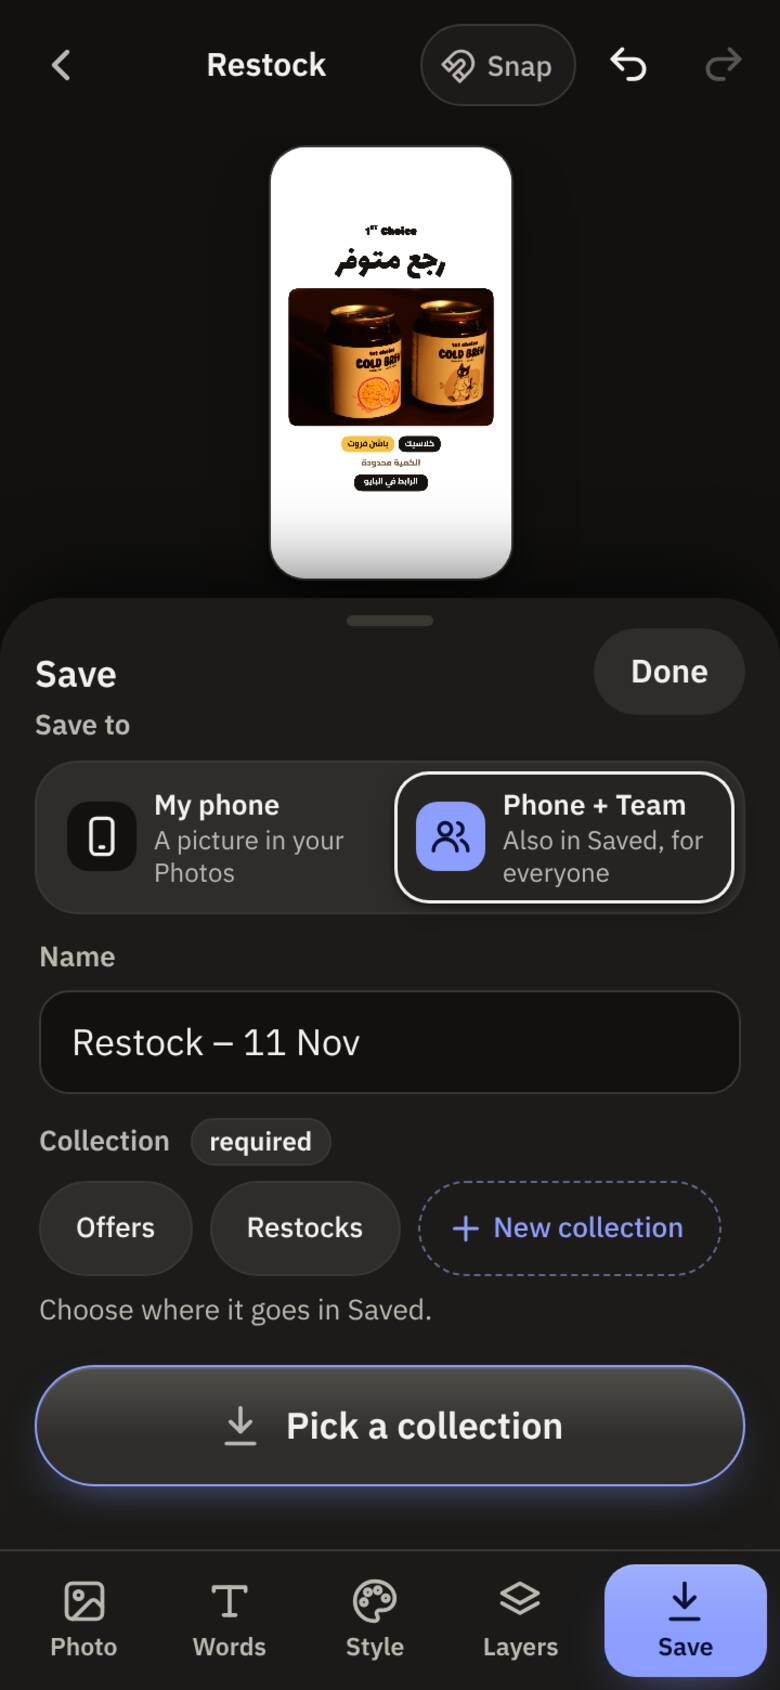
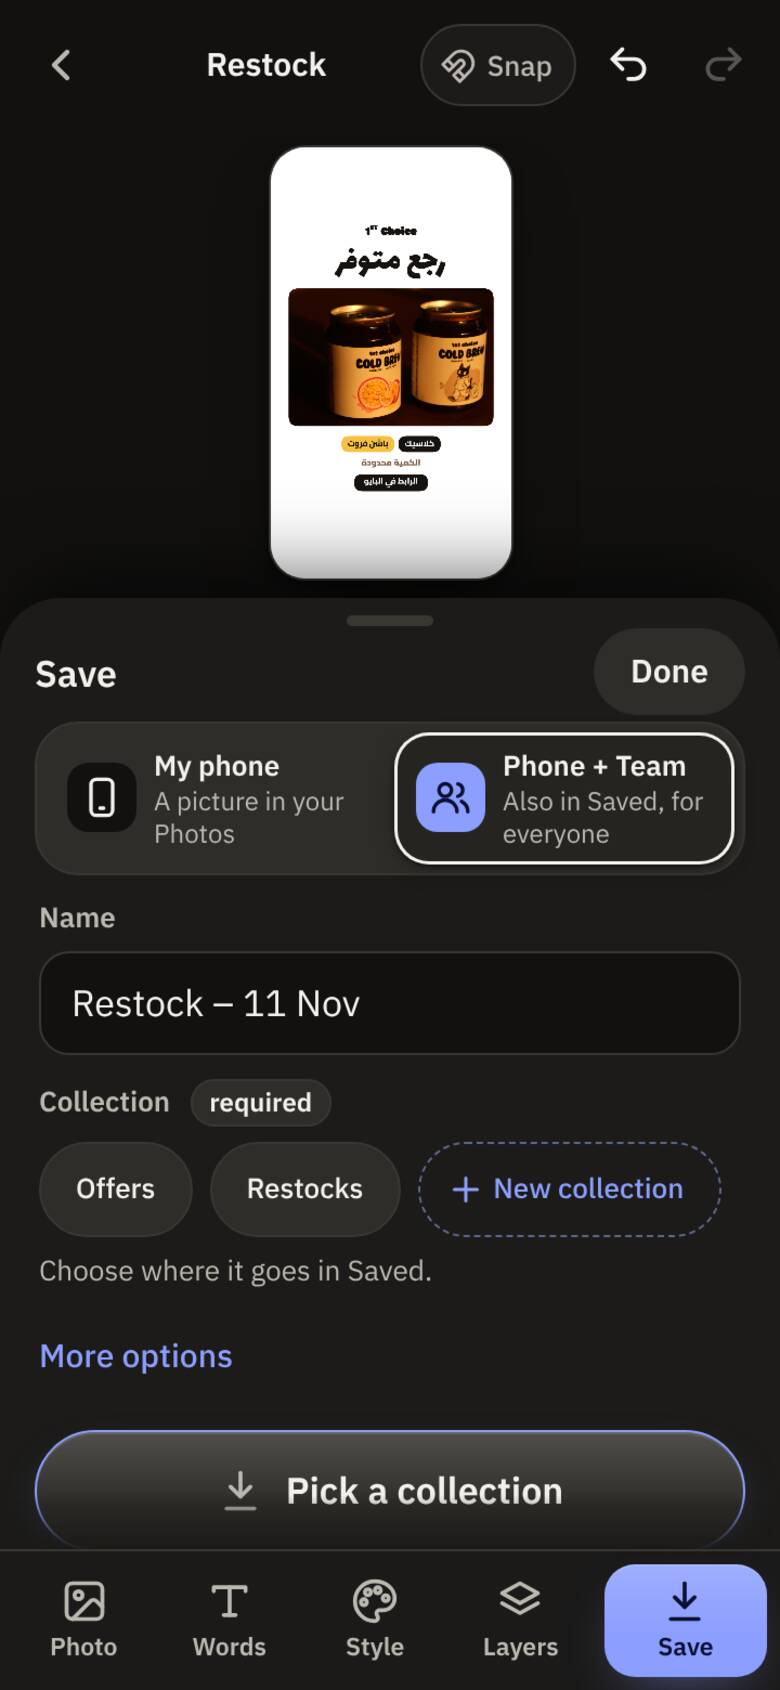
2.4.1: Ideas and Goals are permanent (plan flag removed); Save button stays in place (not pinned), Team scrolls it into view

Changed region(s): [[0.0308, 0.4, 0.9538, 0.9231], [0.4923, 0.4308, 0.9538, 0.5538], [0.5846, 0.6769, 0.9231, 0.7385]]

diff --git a/assets/studio.js b/assets/studio.js
@@ -98,8 +98,7 @@ const FLAGS=[
   {id:'import',label:'Import a Claude Design board',sub:'Open an exported board in Create as layers'},
   {id:'motion',label:'Moving stories',sub:'Save a Create story as a short video'},   /* w3-mp4 */
   {id:'cutout',label:'Remove background',sub:'Cut out a can or a person from a photo, on this device'},
-  {id:'stock',label:'Live stock in Restock',sub:'Pick a sale point and its stock fills in'},   /* w3-stock */
-  {id:'plan',label:'Ideas and Goals',sub:'An ideas board and monthly goals next to the calendar'}   /* 2.4.0 */
+  {id:'stock',label:'Live stock in Restock',sub:'Pick a sale point and its stock fills in'}   /* w3-stock */
 ];
 const CUT_ICON='<svg aria-hidden="true" width="20" height="20" viewBox="0 0 24 24" fill="none" stroke="currentColor" stroke-width="2" stroke-linecap="round" stroke-linejoin="round"><path d="M4 8V5a1 1 0 0 1 1-1h3M16 4h3a1 1 0 0 1 1 1v3M20 16v3a1 1 0 0 1-1 1h-3M8 20H5a1 1 0 0 1-1-1v-3"/><circle cx="12" cy="10" r="2.5"/><path d="M7.5 17.5c.8-2.4 2.5-3.5 4.5-3.5s3.7 1.1 4.5 3.5"/></svg>';   /* cutout (mega) */
 const flags={
@@ -1735,7 +1734,7 @@ async function tool(cfg){
   $('teamOn').addEventListener('change',()=>{ whereP=teamChanged(); });
   /* r3-save: the Save to control. Resolves to true when the team is chosen (signed in) */
   async function setWhere(w){ const sw=$('teamOn'); sw.checked=w==='team'; sw.dispatchEvent(new Event('change')); await whereP;
-    if(sw.checked&&isPhone()) requestAnimationFrame(()=>{ try{ $('teamCols').closest('.tb-field').scrollIntoView({block:'nearest',behavior:matchMedia('(prefers-reduced-motion: reduce)').matches?'auto':'smooth'}); }catch(_){} });   // 2.4.1: the collections, not hidden under Save
+    if(sw.checked&&isPhone()) requestAnimationFrame(()=>{ try{ $('save').scrollIntoView({block:'nearest',behavior:matchMedia('(prefers-reduced-motion: reduce)').matches?'auto':'smooth'}); }catch(_){} });   // 2.4.1: the collections and the Save button both in view
     return sw.checked; }
   $('saveWhere').addEventListener('click',e=>{ const b=e.target.closest('[data-where]'); if(!b||b.dataset.where===where()) return; haptic('tick'); setWhere(b.dataset.where); });
   $('saveWhere').addEventListener('keydown',e=>{ if(!/^Arrow/.test(e.key)) return; e.preventDefault(); const w=where()==='me'?'team':'me'; setWhere(w).then(()=>{ const b=$('saveWhere').querySelector('[data-where="'+where()+'"]'); if(b) b.focus(); }); });
@@ -2838,7 +2837,8 @@ async function home(){
   /* calendar (mega): a fourth page, only with the "team" preview on; its section is made here so with the flag off nothing is added */
   if(!$('calendarView')){   /* calendar: permanent since 2.2.0 (was the team preview) */ const s=document.createElement('section'); s.id='calendarView'; s.className='cal-view'; s.setAttribute('aria-label','Calendar'); s.hidden=true; $('templatesView').after(s); VIEWS.calendar='calendarView'; }
   /* 2.4.0 Plan (preview flag "plan"): Ideas (#ideas) and Goals (#goals) sit next to the calendar, one tab strip on top of the three */
-  const PLAN_ON=flags.on('plan');
+  const PLAN_ON=true;   /* 2.4.1: Ideas and Goals are permanent (owner); was the preview flag "plan" */
+  try{ localStorage.removeItem('studio:flag:plan'); }catch(_){}
   if(PLAN_ON) [['ideas','Ideas'],['goals','Goals']].forEach(([v,l])=>{ if($(v+'View')) return; const s=document.createElement('section'); s.id=v+'View'; s.className='cal-view plan-view '+v+'-view'; s.setAttribute('aria-label',l); s.hidden=true; $('calendarView').after(s); VIEWS[v]=v+'View'; });
   const curView=()=>!$('saved').hidden?'saved':$('templatesView')&&!$('templatesView').hidden?'templates':$('calendarView')&&!$('calendarView').hidden?'calendar':$('ideasView')&&!$('ideasView').hidden?'ideas':$('goalsView')&&!$('goalsView').hidden?'goals':'home';
   const onSaved=()=>curView()==='saved';

diff --git a/assets/studio.css b/assets/studio.css
@@ -1528,12 +1528,11 @@ body.on-calendar .fab{display:none}
    The sheet stops ~300px short of the top bar and scrolls inside; the main Save button stays pinned at its bottom. ---------- */
 @media (max-width:820px){
   body.tool-page .sheet.save-sheet{max-height:min(58dvh,520px,calc(100dvh - var(--top-h) - var(--safe-t) - var(--bar-h) - var(--safe-b) - 300px))}
-  body.tool-page .save-sheet .save-foot{position:sticky;bottom:-8px;z-index:2;display:flex;flex-direction:column;margin:-8px -16px -4px;padding:8px 16px;background:var(--surface)}
-  body.tool-page .save-sheet .save-foot:has(#save[hidden]){display:none}
+  /* 2.4.1 (owner): the Save button no longer floats (it followed the scroll); it stays in its place under the collections */
 }
 .save-foot{display:contents}
 /* 2.4.1 (owner): with Phone + Team the sheet takes a bit more room (the preview keeps ~220px) and the collections scroll clear of the pinned Save */
 @media (max-width:820px){
   body.tool-page .sheet.save-sheet:has(#teamBox:not([hidden])){max-height:min(66dvh,600px,calc(100dvh - var(--top-h) - var(--safe-t) - var(--bar-h) - var(--safe-b) - 220px))}
-  body.tool-page .save-sheet .tb-field{scroll-margin-bottom:96px}
 }
+@media (max-width:820px){ body.tool-page .save-sheet #save{scroll-margin-bottom:16px} }

diff --git a/.claude/skills/studio-improver/SKILL.md b/.claude/skills/studio-improver/SKILL.md
@@ -95,7 +95,7 @@ Everything else in this skill can be rewritten by the skill itself.
 - **Backgrounds (since 2.3.0):** 14 finishes in groups (Gradients, Patterns, Textures) + `gfxs` strength (Soft/Medium/Strong; missing = Medium = the old pixels). `backgrounds` holds baseline hashes of the old finishes: they must never change.
 - **What's New lines (since 2.3.0):** a plain line under a version heading is the release's lead line; more than three cards get an "In this update" list by themselves; `[flag:<id>] label` inside a card draws a switch for that preview flag (same `studio:flag:<id>` key as Settings → Previews).
 - **Preview `next` (2.3.0) — archived in 2.4.0** (owner kept the current design; see the Plan round note above).
-- **Plan round (2.4.0, 12 Nov 2026):** the `next` preview was archived (`_archive/next-preview (2026-11-12)/`, flag removed, `studio:flag:next` cleared on load); kept from it: instant Saved (`keepSaved()` / `keptLoad()`, localStorage `studio:saved:kept:<brand>`), collection on Saved cards (`svCard(d,i,page)`), the design menu with a big picture + `.ds-bigs` four actions (Open, Save picture, Calendar, Collection), the time on Home's Calendar row. **A design's shape** is stored: `designs.format` ('post'|'story'|'square'|'cover', backfilled by migration `20261112120000_plan_round.sql`; backups in `private.backup_*_20261112`); `Studio.shapeOf(d)` (format first, else tool) and `Studio.fmtFromSize(w,h)`; every `C.saveDesign` passes `format` (tools from `W,H`, Create from its first frame via `docFormat()`, Video 'story'). Never decide post/story from the tool alone again. **Add to calendar:** `Studio.planDesign({id?,name?,tool?,format?,thumb?,caption?,title?})` (module level, works on tool pages and the hub) → `StudioCalendar.quick()`; the design picker is module level too: `StudioCalendar.pick()`. Calendar formats are Post / Story / Reel. **Plan views** (flag `plan`): `#ideas` (`assets/ideas.js`) and `#goals` (`assets/kpis.js`) next to `#calendar`, one `planTabs()` strip passed as `ctx.tabs`, shared `planCtx(v)`; they wait for `calReady` like the calendar (opening `#goals` straight away hit `netDown` in its temporal dead zone). Tables `ideas`, `kpi_months`; voice notes in the `studio` bucket (audio mime types added). Hub buttons must never use `data-new` (a global handler opens the + menu). The Save sheet on a phone keeps ≥ ~300px of preview: it scrolls inside and `.save-foot` pins Save; `celebrate()` sizes its tick from the host (`--sb`) and the dot is `flex:none` — a flex child with a fixed width shrinks into a pill in a narrow host. `calpick`, `ideas`, `kpis` suites.
+- **Plan round (2.4.0, 12 Nov 2026):** the `next` preview was archived (`_archive/next-preview (2026-11-12)/`, flag removed, `studio:flag:next` cleared on load); kept from it: instant Saved (`keepSaved()` / `keptLoad()`, localStorage `studio:saved:kept:<brand>`), collection on Saved cards (`svCard(d,i,page)`), the design menu with a big picture + `.ds-bigs` four actions (Open, Save picture, Calendar, Collection), the time on Home's Calendar row. **A design's shape** is stored: `designs.format` ('post'|'story'|'square'|'cover', backfilled by migration `20261112120000_plan_round.sql`; backups in `private.backup_*_20261112`); `Studio.shapeOf(d)` (format first, else tool) and `Studio.fmtFromSize(w,h)`; every `C.saveDesign` passes `format` (tools from `W,H`, Create from its first frame via `docFormat()`, Video 'story'). Never decide post/story from the tool alone again. **Add to calendar:** `Studio.planDesign({id?,name?,tool?,format?,thumb?,caption?,title?})` (module level, works on tool pages and the hub) → `StudioCalendar.quick()`; the design picker is module level too: `StudioCalendar.pick()`. Calendar formats are Post / Story / Reel. **Plan views** (permanent since 2.4.1, owner; the `plan` flag is gone and cleared on load): `#ideas` (`assets/ideas.js`) and `#goals` (`assets/kpis.js`) next to `#calendar`, one `planTabs()` strip passed as `ctx.tabs`, shared `planCtx(v)`; they wait for `calReady` like the calendar (opening `#goals` straight away hit `netDown` in its temporal dead zone). Tables `ideas`, `kpi_months`; voice notes in the `studio` bucket (audio mime types added). Hub buttons must never use `data-new` (a global handler opens the + menu). The Save sheet on a phone keeps ≥ ~300px of preview (≥ ~220px with Phone + Team) and scrolls inside; Save is NOT pinned (owner, 2.4.1: a floating button that follows the scroll is rejected; choosing Team scrolls `#save` into view instead); `celebrate()` sizes its tick from the host (`--sb`) and the dot is `flex:none` — a flex child with a fixed width shrinks into a pill in a narrow host. `calpick`, `ideas`, `kpis` suites.
 - **Lessons, plan round:** two sonnet builders on brand-new files (their own module + suite) with the hub wiring and cloud API written by the lead FIRST worked cleanly (no conflicts, ~5 and ~11 min); give them the ctx contract in a shared brief file. Builders flag lead-owned bugs well (TDZ, missing tab styles): read their "for you to wire" list before merging. When the owner answers a choice question with "do what's best", pick the recommended options and say which in the summary.
 - **Lessons, round 3 (11 Nov 2026):** 5 sonnet builders at once + the lead reached the 5-hour limit in about 2.5 h and cut two builders off minutes before the end; their trees held everything (they committed each step), and the lead finishing the merge itself was cheaper than resuming them. A builder that has reported can keep re-sending its report while its own background server lives: stop it with TaskStop once its branch is merged. Two builders both appended CSS at the end of `studio.css` (keep both). After merging a flow change, run every suite that saves (`teamassets` still used the old switch). The Supabase approval prompt times out in 60 s when the owner is away: apply migrations when he is in the chat, and make the feature say "switched on by the owner once" until then.
 - **Model split:** CLAUDE.md asks for routine building to go to a `sonnet` subagent with a precise brief, and lookups/test runs to `haiku` (see **Testing → Who runs the tests**). Give a subagent files that nobody else is editing at the same time.

diff --git a/studio-notes/changelog.md b/studio-notes/changelog.md
@@ -15,27 +15,29 @@ How the page shows it, with no extra work: the newest version is the big highlig
 
 ## 2.4.1 · 12 Nov 2026
 
+### Ideas and Goals for everyone
+type: feature
+The Ideas board and monthly Goals are now part of Studio for the whole team, with no switch to turn on. Find them under the Calendar row on Home (Ideas, Goals, + Idea), in the + menu (New idea), in search, and as tabs next to the Calendar.
+
 ### Save always asks first
 type: fix
-Tapping Save never saves straight away any more, not even right after you start from a photo. The Save sheet opens first, on **My phone**, so you always choose: tap **Save to my phone**, or pick **Phone + Team** and a collection. With Phone + Team the sheet now has a little more room and scrolls your collections into view, so they are never hidden under the Save button. "Save picture" from a design's menu opens the same sheet.
+Tapping Save never saves straight away any more, not even right after you start from a photo. The Save sheet opens first, on **My phone**, so you always choose: tap **Save to my phone**, or pick **Phone + Team** and a collection. With Phone + Team the sheet now has a little more room and scrolls so your collections and the Save button are both in view, and the button stays in its place instead of following you as you scroll. "Save picture" from a design's menu opens the same sheet.
 ![before](assets/whatsnew/2.4.1-team-before.jpg)
 ![after](assets/whatsnew/2.4.1-team-after.jpg)
 
 ## 2.4.0 · 12 Nov 2026
-Plan your month in one place. Add any design to the calendar in a few taps, see what you are saving properly, and try the new Ideas board and monthly Goals as a preview.
+Plan your month in one place. Add any design to the calendar in a few taps, see what you are saving properly, and plan with the new Ideas board and monthly Goals.
 
 ### Add to calendar from anywhere
 type: feature
 After you save, the Save sheet now offers **Add to calendar**, and every saved design has a **Calendar** button in its menu. One small sheet: pick the day (this week is right there, More for any other date), a time if you want one, Post, Story or Reel (already chosen from the design's size) and a caption if you have it. Tap **Add to Thursday** and it is on the calendar, linked to the design. Reels can now be planned too.
 
-### A home for every idea (preview)
+### A home for every idea
 type: feature
-[flag:plan] Try Ideas and Goals
 Catch an idea in seconds from the + button or Home: type it, paste a link, add a screenshot or record a voice note (up to 2 minutes, saved small, the whole team can play it). New ideas land in the **Inbox**; one tap on Reel, Post, Story or Giveaway sorts it onto the **Board** (Idea, Planned, In progress, Posted). Each card can link to a design and to a calendar day, so an idea goes from voice note to design to scheduled post. On a computer, drag cards between columns.
 
-### Goals for every month (preview)
+### Goals for every month
 type: feature
-[flag:plan] Try Ideas and Goals
 Set how many posts, stories, reels and giveaways you want this month. Anything marked as posted in the calendar counts by itself ("12 of 15"). Type in your reach, likes, saves and followers, and see at a glance whether you are growing: every number shows the change against last month, and a small chart shows the last 6 months. Ideas, Goals and Calendar sit side by side with tabs on top.
 
 ### See what you are saving

diff --git a/README.md b/README.md
@@ -92,7 +92,7 @@ The preview fills the screen. The bottom bar has **Photo, Words, Style, Layers, 
 
 ## Previews (Settings → Previews)
 New features wait here until the owner says yes. Each is off by default on every device; switching one on affects only this phone (`?flag-<id>=1` in a link does the same).
-- **Ideas and Goals** (2.4.0, flag `plan`): two pages next to the calendar, with a Calendar · Ideas · Goals tab strip on top of all three. Home's Calendar row gets small **Ideas**, **Goals** and **+ Idea** buttons; the + menu gets **New idea**.
+- **Ideas and Goals** (2.4.0; permanent since 2.4.1, no switch): two pages next to the calendar, with a Calendar · Ideas · Goals tab strip on top of all three. Home's Calendar row gets small **Ideas**, **Goals** and **+ Idea** buttons; the + menu gets **New idea**.
   - **Ideas** (`#ideas`, `assets/ideas.js`): quick capture (type, paste a link, add a picture, or record a voice note: up to 2 minutes, 24 kbit/s, stored in the private bucket and playable by the team). New ideas land in the **Inbox**; one tap on Reel / Post / Story / Giveaway sorts them onto the **Board** (Idea, Planned, In progress, Posted). A card links to a design (Pick a design, Make a design) and to a calendar day (Add to calendar moves it to Planned). Search and type filters; on a computer drag cards between columns. Table `ideas`.
   - **Goals** (`#goals`, `assets/kpis.js`): per month, targets for posts, stories, reels and giveaways; calendar items marked **Posted** count by themselves ("12 of 15"); reach, likes, saves and followers typed in by hand with the change against last month; a 6-month bar chart. Table `kpi_months` (each number keeps `src`, so an Instagram import can fill it later; see `studio-notes/instagram-phase2.md`).
 - The **New Studio look** preview (2.3.0) was retired in 2.4.0 and archived in `_archive/next-preview (2026-11-12)/`; its instant Saved, collection on Saved cards, bigger design menu and the time on Home's Calendar row are in the main design.

diff --git a/studio-notes/taste.md b/studio-notes/taste.md
@@ -65,7 +65,7 @@ Counts = separate versions or briefs where the issue was raised. "Exists" = alre
 
 ## Things he rejected (never do again)
 - **One-tap save** (Quick start's Save saving at once, 2.4.0 and before): "when I tap save, I should choose first whether to save and add to team or not" (12 Nov 2026). [S] Save on a phone always opens the Save sheet (My phone / Phone + Team) first; tap budgets are +1 because of it. Checked by smoke/taste/quicksave.
-- Anything hidden under a pinned button in a sheet (the collection chips under Save, 2.4.0 screenshot). [S]
+- Anything hidden under a pinned button in a sheet (the collection chips under Save, 2.4.0 screenshot), and buttons that follow you while scrolling ("the button for choose a collection is moving with me when scrolling", 12 Nov). [S] No sticky buttons inside sheets.
 - The "New Studio look" as a whole (2.3.0 preview): felt less polished than the current design; keep the current sizing, the calendar at the top of Home and its polish (2.4.0 brief). [S] Only instant Saved, collection on cards, the bigger design menu and the calendar time were blended in.
 - A second filter row under the collection chips (All / Stories / Posts in Pick a design) (2.4.0 brief). [S]
 - Anything saved to the team without him choosing it, or a team save with no collection. [S 11 Nov]
